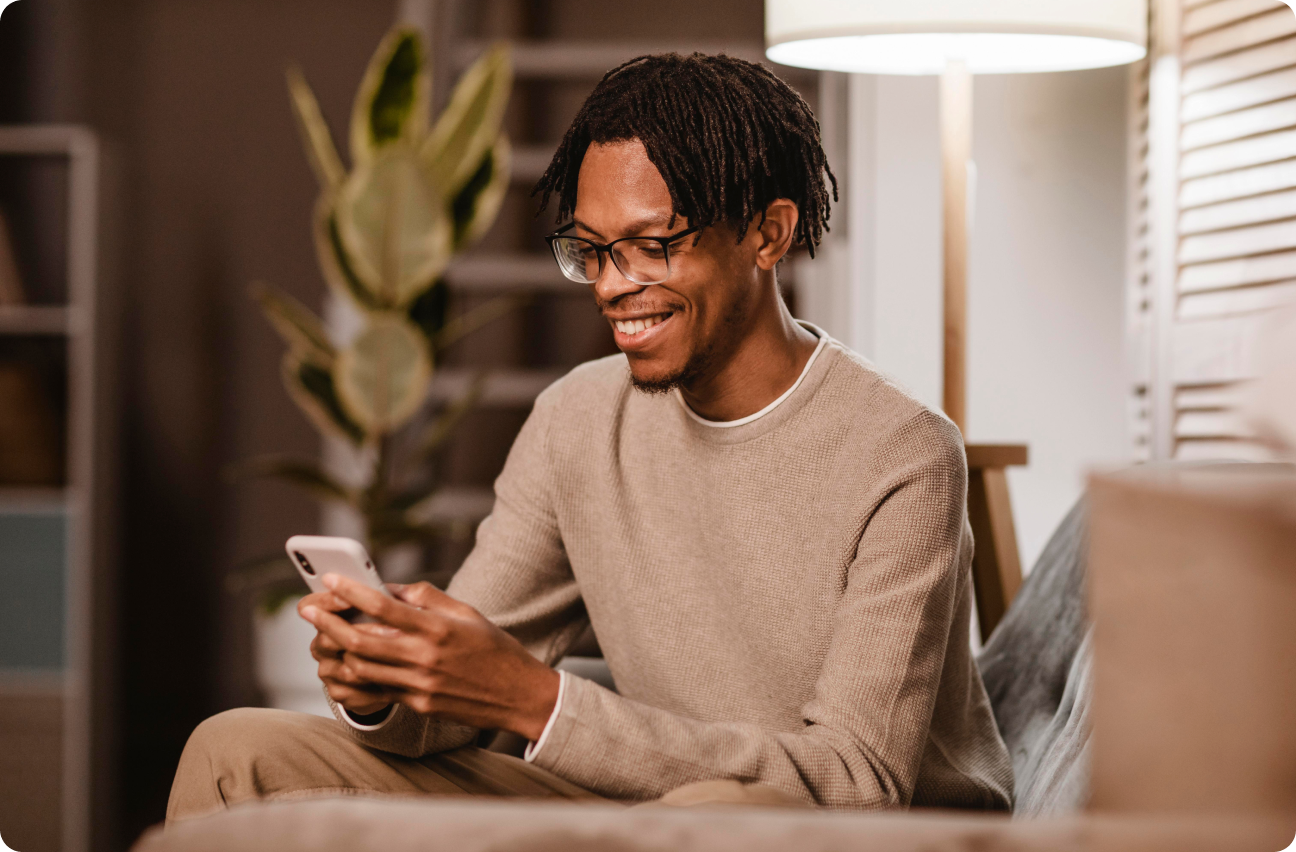
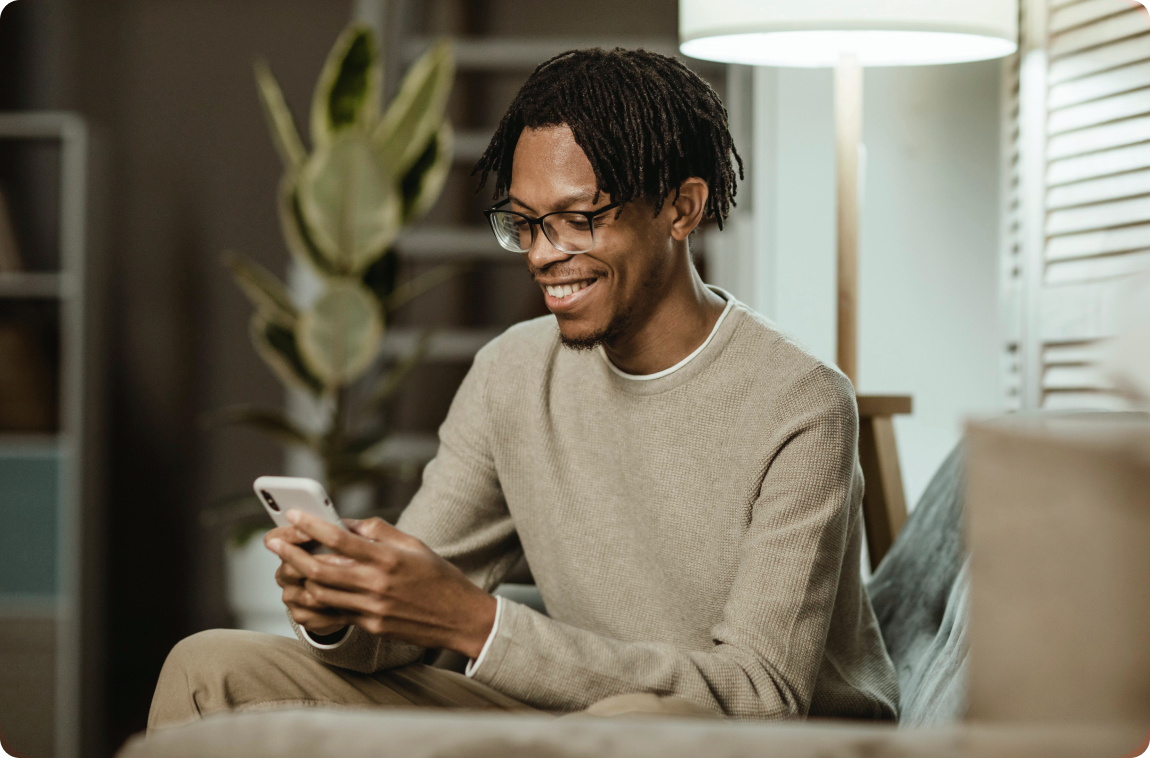
margin fix

diff --git a/style.css b/style.css
@@ -7,7 +7,7 @@
 }
 
 :root {
-  --hue: 260;
+  --hue: 190;
 
   --primary-color: hsl(var(--hue), 100%, 26%);
   --headline: hsl(210, 11%, 15%);
@@ -18,7 +18,7 @@
   --brand-light-2: hsl(calc(var(--hue) + 10), 14%, 97%);
   --brand-services: hsl(180, 14%, 97%);
 
-  --menu-hover-bg: hsl(calc(var(--primary-colo) - 10), 23%, 89%);
+  --hover-btn-state: hsl(var(--hue), 100%, 14%);
   
   font-size: 62.5%; /* 1rem = 10px */
   
@@ -73,6 +73,10 @@ button {
   cursor: pointer;
 }
 
+img {
+  max-width: 100%;
+}
+
 li {
   cursor: pointer;
 }
@@ -121,6 +125,12 @@ section p {
   line-height: 1.8rem;
   text-transform: uppercase;
   color: white;
+
+  transition: 0.2s;
+}
+
+.consult-button:hover {
+  background-color: var(--hover-btn-state);
 }
 
 
@@ -273,7 +283,8 @@ body.menu-expanded .menu {
   font-size: 1.8rem;
   line-height: 2.3rem;
   text-transform: uppercase;
-  color: var(--primary-color);
+  color: white;
+  
   text-decoration: none;
 
   display: inline-block;
@@ -281,7 +292,7 @@ body.menu-expanded .menu {
   padding: 1.3rem 2.9rem;
   margin: 4.8rem 0 8rem;
 
-  background: white;
+  background: var(--primary-color);
 
   border-radius: 4rem;
   border: 3px solid white;
@@ -290,9 +301,9 @@ body.menu-expanded .menu {
 }
 
 .menu .button:hover {
-  background: var(--primary-color);
+  background: white;
 
-  color: white;
+  color: var(--primary-color);
 }
 
 .social-links {
@@ -501,10 +512,6 @@ body.menu-expanded button path {
 
 .contact-content a img {
   height: 2.4rem;
-}
-
-#contact-guy-image {
-  width: 100%;
 }
 
 
@@ -823,7 +830,7 @@ body.menu-expanded button path {
 
 
 
-  /*========= ABOUT ===============*/
+  /*========= CONTACT ===============*/
 
   #contact .container {
     grid-template-columns: 1fr 57.5rem;
@@ -832,9 +839,10 @@ body.menu-expanded button path {
 
   #contact h2 {
     width: 40.4rem;
+    margin-inline: 0;
   }
 
-
+  
 
   /*========= FOOTER ===============*/
 
